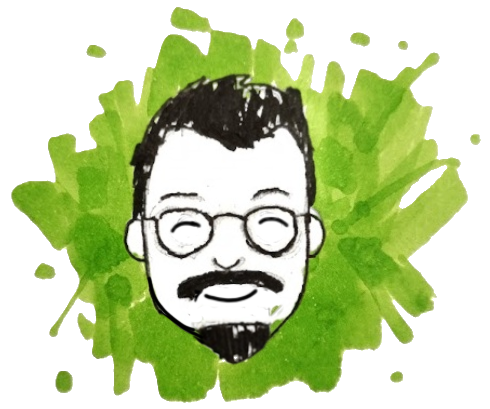
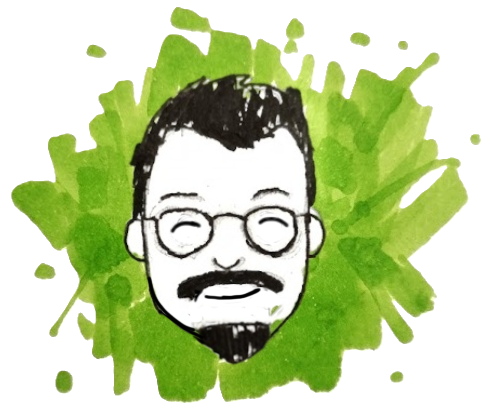
Sobre: nova ilustração de perfil com fundo transparente (#4)
Claude-Session: https://claude.ai/code/session_01XHdi4WDf9jMVZwx9iY2J98

Changed region(s): [[0.398, 0.7042, 0.551, 0.7628], [0.8571, 0.4108, 0.8878, 0.4401]]

diff --git a/sobre.html b/sobre.html
@@ -36,7 +36,7 @@
 <section class="ml-container about-intro" aria-labelledby="sobre-title">
   <h1 id="sobre-title" class="ml-heading about-title ml-intro ml-intro--1" style="font-family: &quot;IBM Plex Mono&quot;, monospace; font-size: 48px; line-height: 1; font-weight: 700; letter-spacing: -0.96px; font-style: normal">Sobre mim</h1>
   <div class="about-intro__body" style="align-items: center">
-    <img class="about-intro__illustration ml-intro ml-intro--2" src="assets/img/perfil-ilustracao.png" alt="Ilustração do Guilherme" width="490" height="409">
+    <img class="about-intro__illustration ml-intro ml-intro--2" src="assets/img/perfil-ilustracao.png?v=20261113" alt="Ilustração do Guilherme" width="490" height="409">
     <div class="about-intro__text">
       <p class="about-lead ml-intro ml-intro--3" style="font-family: &quot;Geist&quot;, sans-serif">Atualmente sou Product Designer na Santander Corretora e cuido da jornada ponta a ponta dos produtos digitais de renda variável, fazendo entrevistas qualitativas e quantitativas, benchmark, workshops, mapeamento de jornadas, protótipos e testes com usuários.</p>
       <p class="about-sub ml-intro ml-intro--4" style="font-family: &quot;Geist&quot;, sans-serif">Sou apaixonado por entender as motivações do comportamento humano e por resolver problemas. É por isso que, além do design, hoje também estudo Psicologia e tirei as certificações CPA e C-PRO R.</p>
